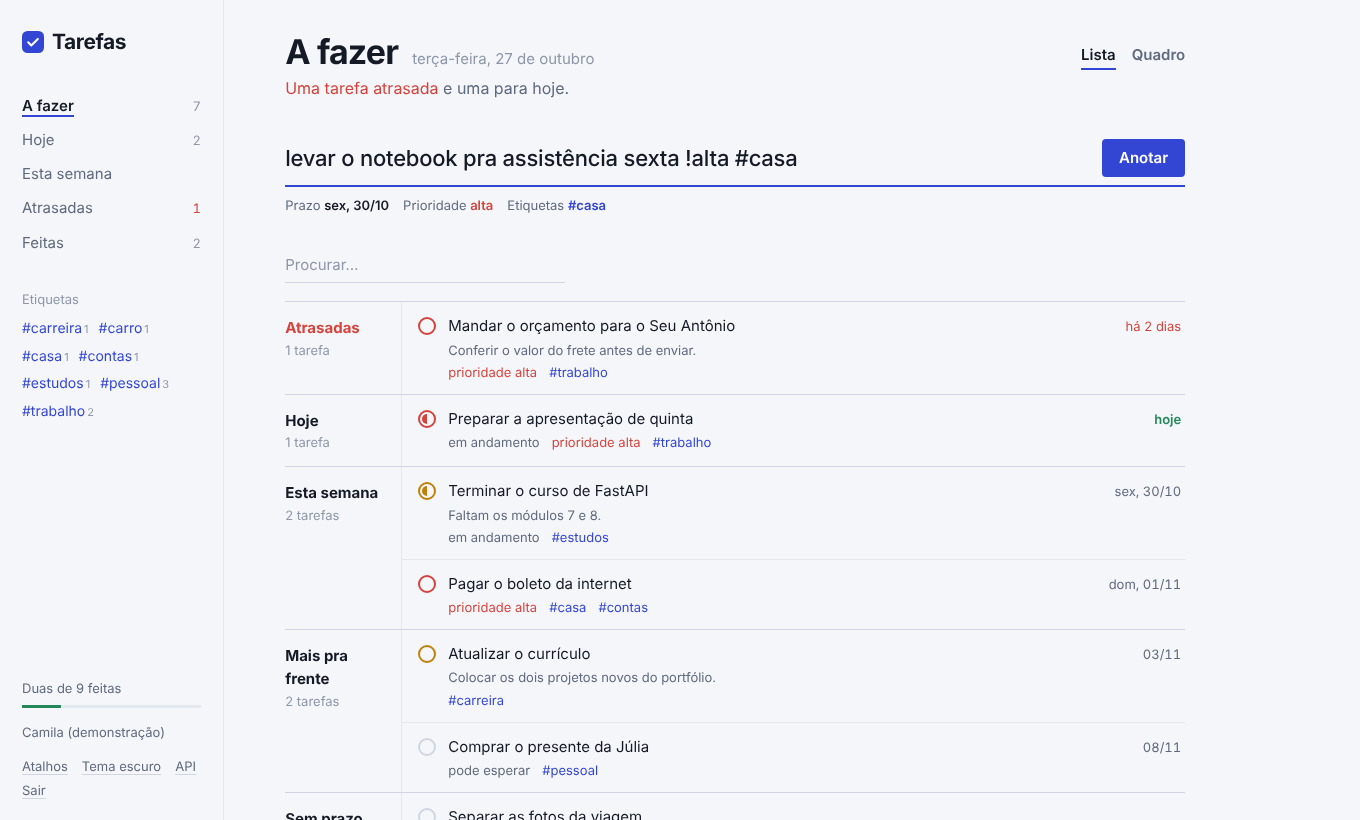
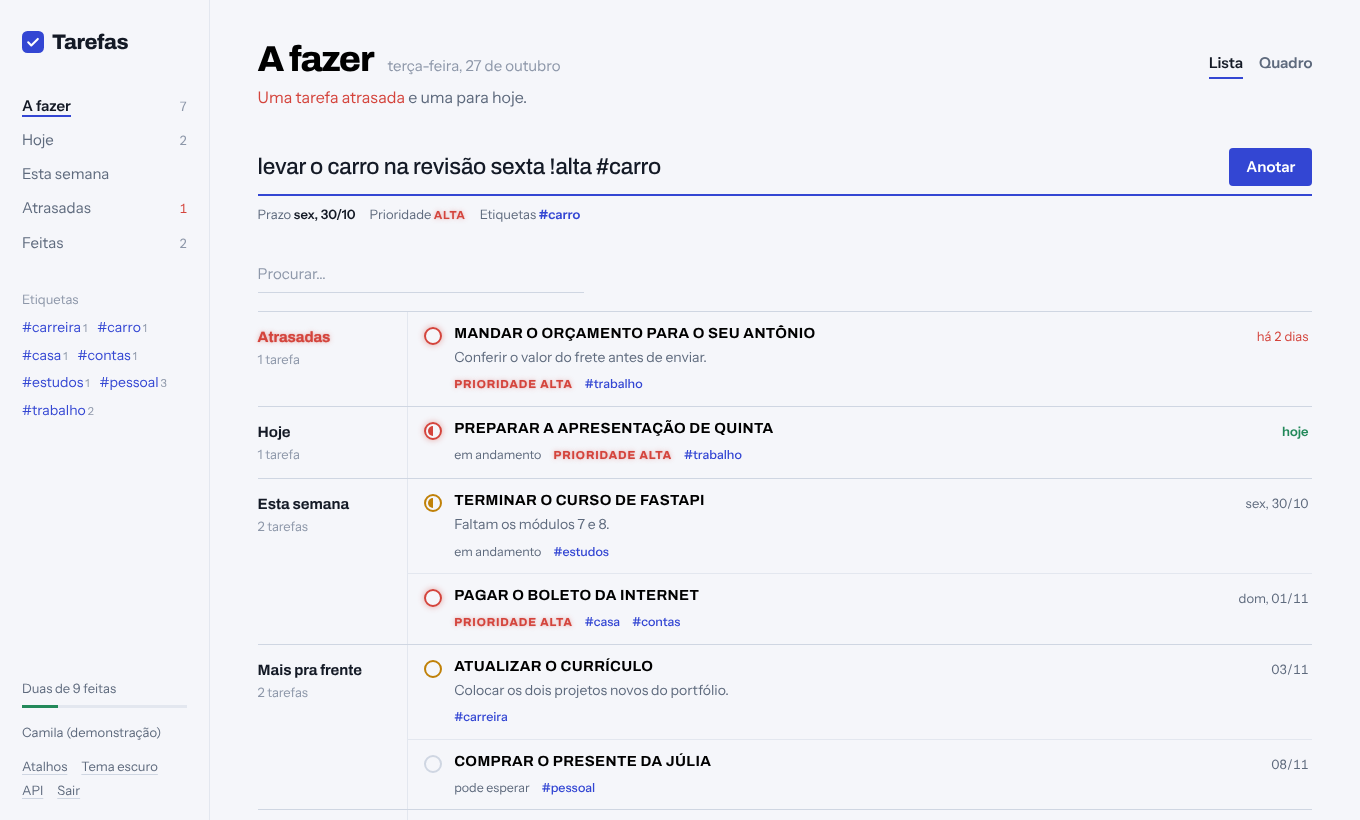
Tipografia: títulos em caixa alta e prioridade alta com brilho neon
- Títulos das tarefas em CAIXA ALTA, pretos (brancos no tema escuro) e em negrito, com Archivo
- PRIORIDADE ALTA em vermelho com brilho suave de neon; círculo da tarefa com halo leve
- Hierarquia: título > descrição > etiquetas e prazo, com tamanhos e pesos consistentes
- Cabeçalhos e ficha da tarefa com Archivo; textos corridos com Instrument Sans

Claude-Session: https://claude.ai/code/session_01LiHwS4HZUZgBoyyaKq9JBM

diff --git a/app/static/app.css b/app/static/app.css
@@ -24,10 +24,13 @@
   --low: #8d97a9;
   --done: #23895a;
   --done-soft: #e3f4ec;
+  --title: #000000;
+  --glow: 0 0 5px rgba(212, 68, 60, 0.38), 0 0 1px rgba(212, 68, 60, 0.5);
   --shadow: 0 1px 2px rgba(20, 26, 38, 0.06), 0 1px 1px rgba(20, 26, 38, 0.04);
   --pop: 0 24px 64px rgba(20, 26, 38, 0.22);
 
-  --display: "Bricolage Grotesque", "Segoe UI", system-ui, sans-serif;
+  /* Archivo: títulos e cabeçalhos (forte em caixa alta). Instrument Sans: textos corridos. */
+  --display: "Archivo", "Segoe UI", system-ui, sans-serif;
   --text: "Instrument Sans", system-ui, -apple-system, "Segoe UI", sans-serif;
   --r-s: 6px;
   --r-m: 10px;
@@ -58,6 +61,8 @@
   --low: #727e94;
   --done: #4cc38a;
   --done-soft: #16322a;
+  --title: #ffffff; /* no tema escuro, o "preto" do título vira branco puro, pelo mesmo contraste */
+  --glow: 0 0 8px rgba(255, 123, 114, 0.7), 0 0 2px rgba(255, 123, 114, 0.9);
   --shadow: 0 1px 2px rgba(0, 0, 0, 0.4);
   --pop: 0 24px 64px rgba(0, 0, 0, 0.55);
 }
@@ -118,7 +123,7 @@ svg { flex: none; width: 16px; height: 16px; }
 .auth__left { padding: clamp(28px, 5vw, 64px); display: flex; flex-direction: column; gap: 44px; background: var(--panel); }
 .auth__top { display: flex; justify-content: space-between; align-items: center; }
 .auth__form { width: 100%; max-width: 360px; display: grid; gap: 22px; margin: auto 0; }
-.auth__title { font-family: var(--display); font-size: 34px; line-height: 1.05; letter-spacing: -0.025em; }
+.auth__title { font-family: var(--display); font-weight: 800; font-size: 34px; line-height: 1.05; letter-spacing: -0.025em; }
 .auth__note { color: var(--muted); font-size: 14px; }
 .auth__demo { display: grid; gap: 8px; padding-bottom: 22px; border-bottom: 1px solid var(--line); }
 .auth__foot { font-size: 13px; color: var(--faint); }
@@ -138,9 +143,9 @@ svg { flex: none; width: 16px; height: 16px; }
 .sheet__result { display: grid; grid-template-columns: auto 1fr auto; gap: 12px; align-items: baseline; padding-top: 14px; opacity: 0; transform: translateY(-4px); transition: opacity 300ms, transform 300ms; }
 .sheet__result.is-shown { opacity: 1; transform: none; }
 .sheet__dot { width: 14px; height: 14px; border: 2px solid #d4443c; border-radius: 50%; align-self: center; }
-.sheet__title { font-weight: 500; }
+.sheet__title { color: #000; }
 .sheet__meta { display: flex; gap: 10px; font-size: 13px; color: #5e6a7d; grid-column: 2; }
-.sheet__meta .hi { color: #d4443c; }
+.sheet__meta .hi { color: #d4443c; text-shadow: 0 0 6px rgba(212, 68, 60, 0.45); }
 .sheet__meta .tag { color: #3346d3; }
 .sheet__due { font-size: 13px; color: #5e6a7d; }
 .sheet__legend { display: flex; flex-wrap: wrap; gap: 6px 18px; font-size: 13px; color: #c9d0ff; }
@@ -153,7 +158,7 @@ svg { flex: none; width: 16px; height: 16px; }
   position: sticky; top: 0; height: 100vh; overflow-y: auto; border-right: 1px solid var(--line);
   display: flex; flex-direction: column; gap: 30px; padding: 26px 22px 20px;
 }
-.wordmark { font-family: var(--display); font-weight: 700; font-size: 21px; letter-spacing: -0.02em; display: inline-flex; align-items: center; gap: 8px; color: var(--ink); }
+.wordmark { font-family: var(--display); font-weight: 800; font-size: 21px; letter-spacing: -0.02em; display: inline-flex; align-items: center; gap: 8px; color: var(--ink); }
 .wordmark img { width: 22px; height: 22px; }
 .views { display: grid; gap: 1px; }
 .view {
@@ -185,7 +190,7 @@ svg { flex: none; width: 16px; height: 16px; }
 .head { display: grid; grid-template-columns: minmax(0, 1fr) auto; gap: 6px 24px; align-items: end; }
 .head__menu { display: none; }
 .head__title { display: flex; align-items: baseline; gap: 14px; flex-wrap: wrap; }
-.head__title h1 { font-family: var(--display); font-size: clamp(28px, 2.2vw + 6px, 46px); line-height: 1.05; letter-spacing: -0.025em; }
+.head__title h1 { font-family: var(--display); font-weight: 800; font-size: clamp(28px, 2.2vw + 6px, 46px); line-height: 1.05; letter-spacing: -0.03em; color: var(--title); }
 .head__date { color: var(--faint); }
 .head__line { grid-column: 1 / -1; color: var(--muted); font-size: 16px; }
 .head__line .late { color: var(--high); }
@@ -208,7 +213,7 @@ svg { flex: none; width: 16px; height: 16px; }
 .jot__hint em { font-style: normal; color: var(--ink); }
 .jot__hint .k { color: var(--muted); }
 .jot__hint .v { color: var(--ink); font-weight: 600; }
-.jot__hint .v.hi { color: var(--high); }
+.jot__hint .v.hi { color: var(--high); text-shadow: var(--glow); }
 .jot__hint .v.tag { color: var(--accent); }
 
 .tools { display: flex; justify-content: space-between; align-items: center; gap: 14px; margin-top: 26px; flex-wrap: wrap; }
@@ -222,9 +227,10 @@ svg { flex: none; width: 16px; height: 16px; }
 
 .sheet-list { margin-top: 18px; border-top: 1px solid var(--line-strong); }
 .block { display: grid; grid-template-columns: clamp(112px, 11vw, 220px) minmax(0, 1fr); border-bottom: 1px solid var(--line-strong); }
-.block__label { padding: 14px 16px 14px 0; font-family: var(--display); font-weight: 700; font-size: 15px; }
+.block__label { padding: 14px 16px 14px 0; font-family: var(--display); font-weight: 700; font-size: 15px; letter-spacing: -0.005em; }
 .block__label span { display: block; font-family: var(--text); font-weight: 400; font-size: 13px; color: var(--faint); }
-.block--late .block__label { color: var(--high); }
+.block--late .block__label { color: var(--high); text-shadow: var(--glow); }
+.block--late .block__label span { color: var(--faint); text-shadow: none; }
 .block__items { border-left: 1px solid var(--line); }
 
 .task { display: grid; grid-template-columns: auto minmax(0, 1fr) auto; gap: 12px; align-items: start; padding: 12px 4px 12px 16px; border-top: 1px solid var(--line); }
@@ -247,12 +253,24 @@ svg { flex: none; width: 16px; height: 16px; }
 [data-priority="media"] { --prio: var(--mid); }
 
 .task__body { min-width: 0; cursor: pointer; background: none; border: 0; padding: 0; text-align: left; display: grid; gap: 2px; }
-.task__title { overflow-wrap: anywhere; }
-.task.is-done .task__title { color: var(--faint); text-decoration: line-through; }
-.task__note { color: var(--muted); font-size: 13px; overflow: hidden; text-overflow: ellipsis; white-space: nowrap; }
-.task__meta { display: flex; flex-wrap: wrap; gap: 2px 12px; font-size: 13px; color: var(--muted); }
-.task__meta .hi { color: var(--high); }
-.task__meta .tag { color: var(--accent); }
+/* Hierarquia de cada tarefa: TÍTULO (caixa alta, preto, forte) > descrição > etiquetas e prazo. */
+.task__body { gap: 4px; }
+.task__title, .note__title, .sheet__title {
+  font-family: var(--display); font-weight: 700; text-transform: uppercase;
+  font-size: clamp(14.5px, 0.2vw + 12px, 16.5px); letter-spacing: 0.025em; line-height: 1.3;
+  color: var(--title); overflow-wrap: anywhere;
+}
+.task.is-done .task__title { color: var(--faint); font-weight: 600; text-decoration: line-through; }
+.task__note { color: var(--muted); font-size: 14px; line-height: 1.45; overflow: hidden; text-overflow: ellipsis; white-space: nowrap; }
+.task__meta { display: flex; flex-wrap: wrap; align-items: baseline; gap: 2px 12px; font-size: 12.5px; color: var(--muted); margin-top: 3px; }
+.task__meta .tag { color: var(--accent); font-weight: 500; }
+.task__meta .late { color: var(--high); }
+/* PRIORIDADE ALTA: vermelho com um brilho leve de neon, legível e sem exagero. */
+.hi, .task__meta .hi, .sheet__meta .hi {
+  color: var(--high); font-family: var(--display); font-weight: 700; font-size: 11.5px;
+  letter-spacing: 0.08em; text-transform: uppercase; text-shadow: var(--glow);
+}
+[data-priority="alta"]:not(.is-done) .dot { box-shadow: 0 0 6px color-mix(in srgb, var(--high) 45%, transparent); }
 .task__due { font-size: 13px; color: var(--muted); white-space: nowrap; padding-top: 2px; font-variant-numeric: tabular-nums; }
 .task__due--late { color: var(--high); }
 .task__due--today { color: var(--done); font-weight: 600; }
@@ -267,7 +285,7 @@ svg { flex: none; width: 16px; height: 16px; }
 .lane:first-child { border-left: 0; padding-left: 0; }
 .lane.is-over { background: var(--accent-soft); }
 .lane__head { display: flex; gap: 8px; align-items: baseline; margin-bottom: 12px; }
-.lane__title { font-family: var(--display); font-weight: 700; font-size: 15px; }
+.lane__title { font-family: var(--display); font-weight: 700; font-size: 15px; color: var(--title); }
 .lane__n { color: var(--faint); font-size: 13px; }
 .lane__body { display: grid; gap: 8px; }
 .lane__empty { color: var(--faint); font-size: 13px; padding: 10px 0; }
@@ -278,7 +296,6 @@ svg { flex: none; width: 16px; height: 16px; }
 .note:hover { border-color: var(--line-strong); }
 .note.is-dragging { opacity: 0.4; }
 .note__pip { width: 8px; height: 8px; border-radius: 50%; background: var(--prio, var(--line-strong)); margin-top: 7px; }
-.note__title { overflow-wrap: anywhere; }
 .note.is-done .note__title { color: var(--faint); text-decoration: line-through; }
 .note .task__meta { grid-column: 2; }
 
@@ -299,7 +316,7 @@ svg { flex: none; width: 16px; height: 16px; }
 .drawer__body { flex: 1; overflow-y: auto; padding: 4px 24px 24px; }
 .drawer__title {
   width: 100%; border: 0; background: none; outline: none; padding: 0 0 10px; border-bottom: 2px solid var(--line);
-  font-family: var(--display); font-size: 24px; font-weight: 700; letter-spacing: -0.015em;
+  font-family: var(--display); font-size: 22px; font-weight: 800; letter-spacing: 0.01em; text-transform: uppercase; color: var(--title);
   resize: none; line-height: 1.2;
 }
 .drawer__title:focus { border-bottom-color: var(--accent); }

diff --git a/app/static/app.js b/app/static/app.js
@@ -778,14 +778,14 @@ function boardNote(task) {
   const done = task.status === "concluida";
   const due = dueLabel(task.due_date, done);
   const meta = metaLine(task, { status: false });
-  if (due && meta) meta.prepend(h("span", { class: due.kind === "late" ? "hi" : null }, due.text.toLowerCase()));
+  if (due && meta) meta.prepend(h("span", { class: due.kind === "late" ? "late" : null }, due.text.toLowerCase()));
   const note = h("button", {
     class: `note${done ? " is-done" : ""}`, type: "button", draggable: "true", "data-priority": task.priority,
     onclick: () => openDrawer(task),
   },
     h("span", { class: "note__pip", "aria-hidden": "true" }),
     h("span", { class: "note__title" }, task.title),
-    meta || (due && h("span", { class: "task__meta" }, h("span", { class: due.kind === "late" ? "hi" : null }, due.text.toLowerCase()))));
+    meta || (due && h("span", { class: "task__meta" }, h("span", { class: due.kind === "late" ? "late" : null }, due.text.toLowerCase()))));
   note.addEventListener("dragstart", (event) => {
     event.dataTransfer.setData("text/plain", String(task.id));
     event.dataTransfer.effectAllowed = "move";

diff --git a/app/static/index.html b/app/static/index.html
@@ -18,7 +18,7 @@
   </script>
   <link rel="preconnect" href="https://fonts.googleapis.com">
   <link rel="preconnect" href="https://fonts.gstatic.com" crossorigin>
-  <link rel="stylesheet" href="https://fonts.googleapis.com/css2?family=Bricolage+Grotesque:opsz,wght@12..96,500;12..96,700&family=Instrument+Sans:wght@400;500;600&display=swap">
+  <link rel="stylesheet" href="https://fonts.googleapis.com/css2?family=Archivo:wght@500;600;700;800&family=Instrument+Sans:wght@400;500;600&display=swap">
   <link rel="stylesheet" href="/static/app.css">
 </head>
 <body>

diff --git a/tests/test_app.py b/tests/test_app.py
@@ -6,7 +6,7 @@ from app.seed import DEMO_EMAIL, DEMO_PASSWORD
 
 
 def test_health(client):
-    assert client.get("/health").json() == {"status": "ok", "version": "1.3.0"}
+    assert client.get("/health").json() == {"status": "ok", "version": "1.4.0"}
 
 
 def test_home_serves_the_web_interface(client):

diff --git a/app/main.py b/app/main.py
@@ -21,7 +21,7 @@ from app.routers import auth, tasks
 from app.security import hash_password
 from app.seed import DEMO_EMAIL, DEMO_PASSWORD, seed_demo
 
-__version__ = "1.3.0"
+__version__ = "1.4.0"
 STATIC_DIR = Path(__file__).parent / "static"
 
 DESCRIPTION = """

diff --git a/README.md b/README.md
@@ -34,6 +34,9 @@ finas, o nome de cada grupo escrito na margem e quase nenhuma caixa ou sombra.
   A cor do círculo indica a prioridade; meio preenchido quer dizer "em andamento".
 - **Quadro**: colunas Pendente, Em andamento e Feita; arrastar muda a situação da tarefa.
 - **Ficha da tarefa** ao lado, para editar tudo; marcar como feita e excluir têm **Desfazer**.
+- **Tipografia com hierarquia clara**: títulos das tarefas em caixa alta, pretos e em negrito
+  (Archivo), descrições em texto corrido (Instrument Sans) e etiquetas e prazos menores.
+  **PRIORIDADE ALTA** aparece em vermelho com um brilho leve de neon.
 - O cabeçalho resume o dia numa frase ("Uma tarefa atrasada e duas para hoje."), há tema claro
   e escuro, atalhos de teclado (`?`) e layout para celular.
 
